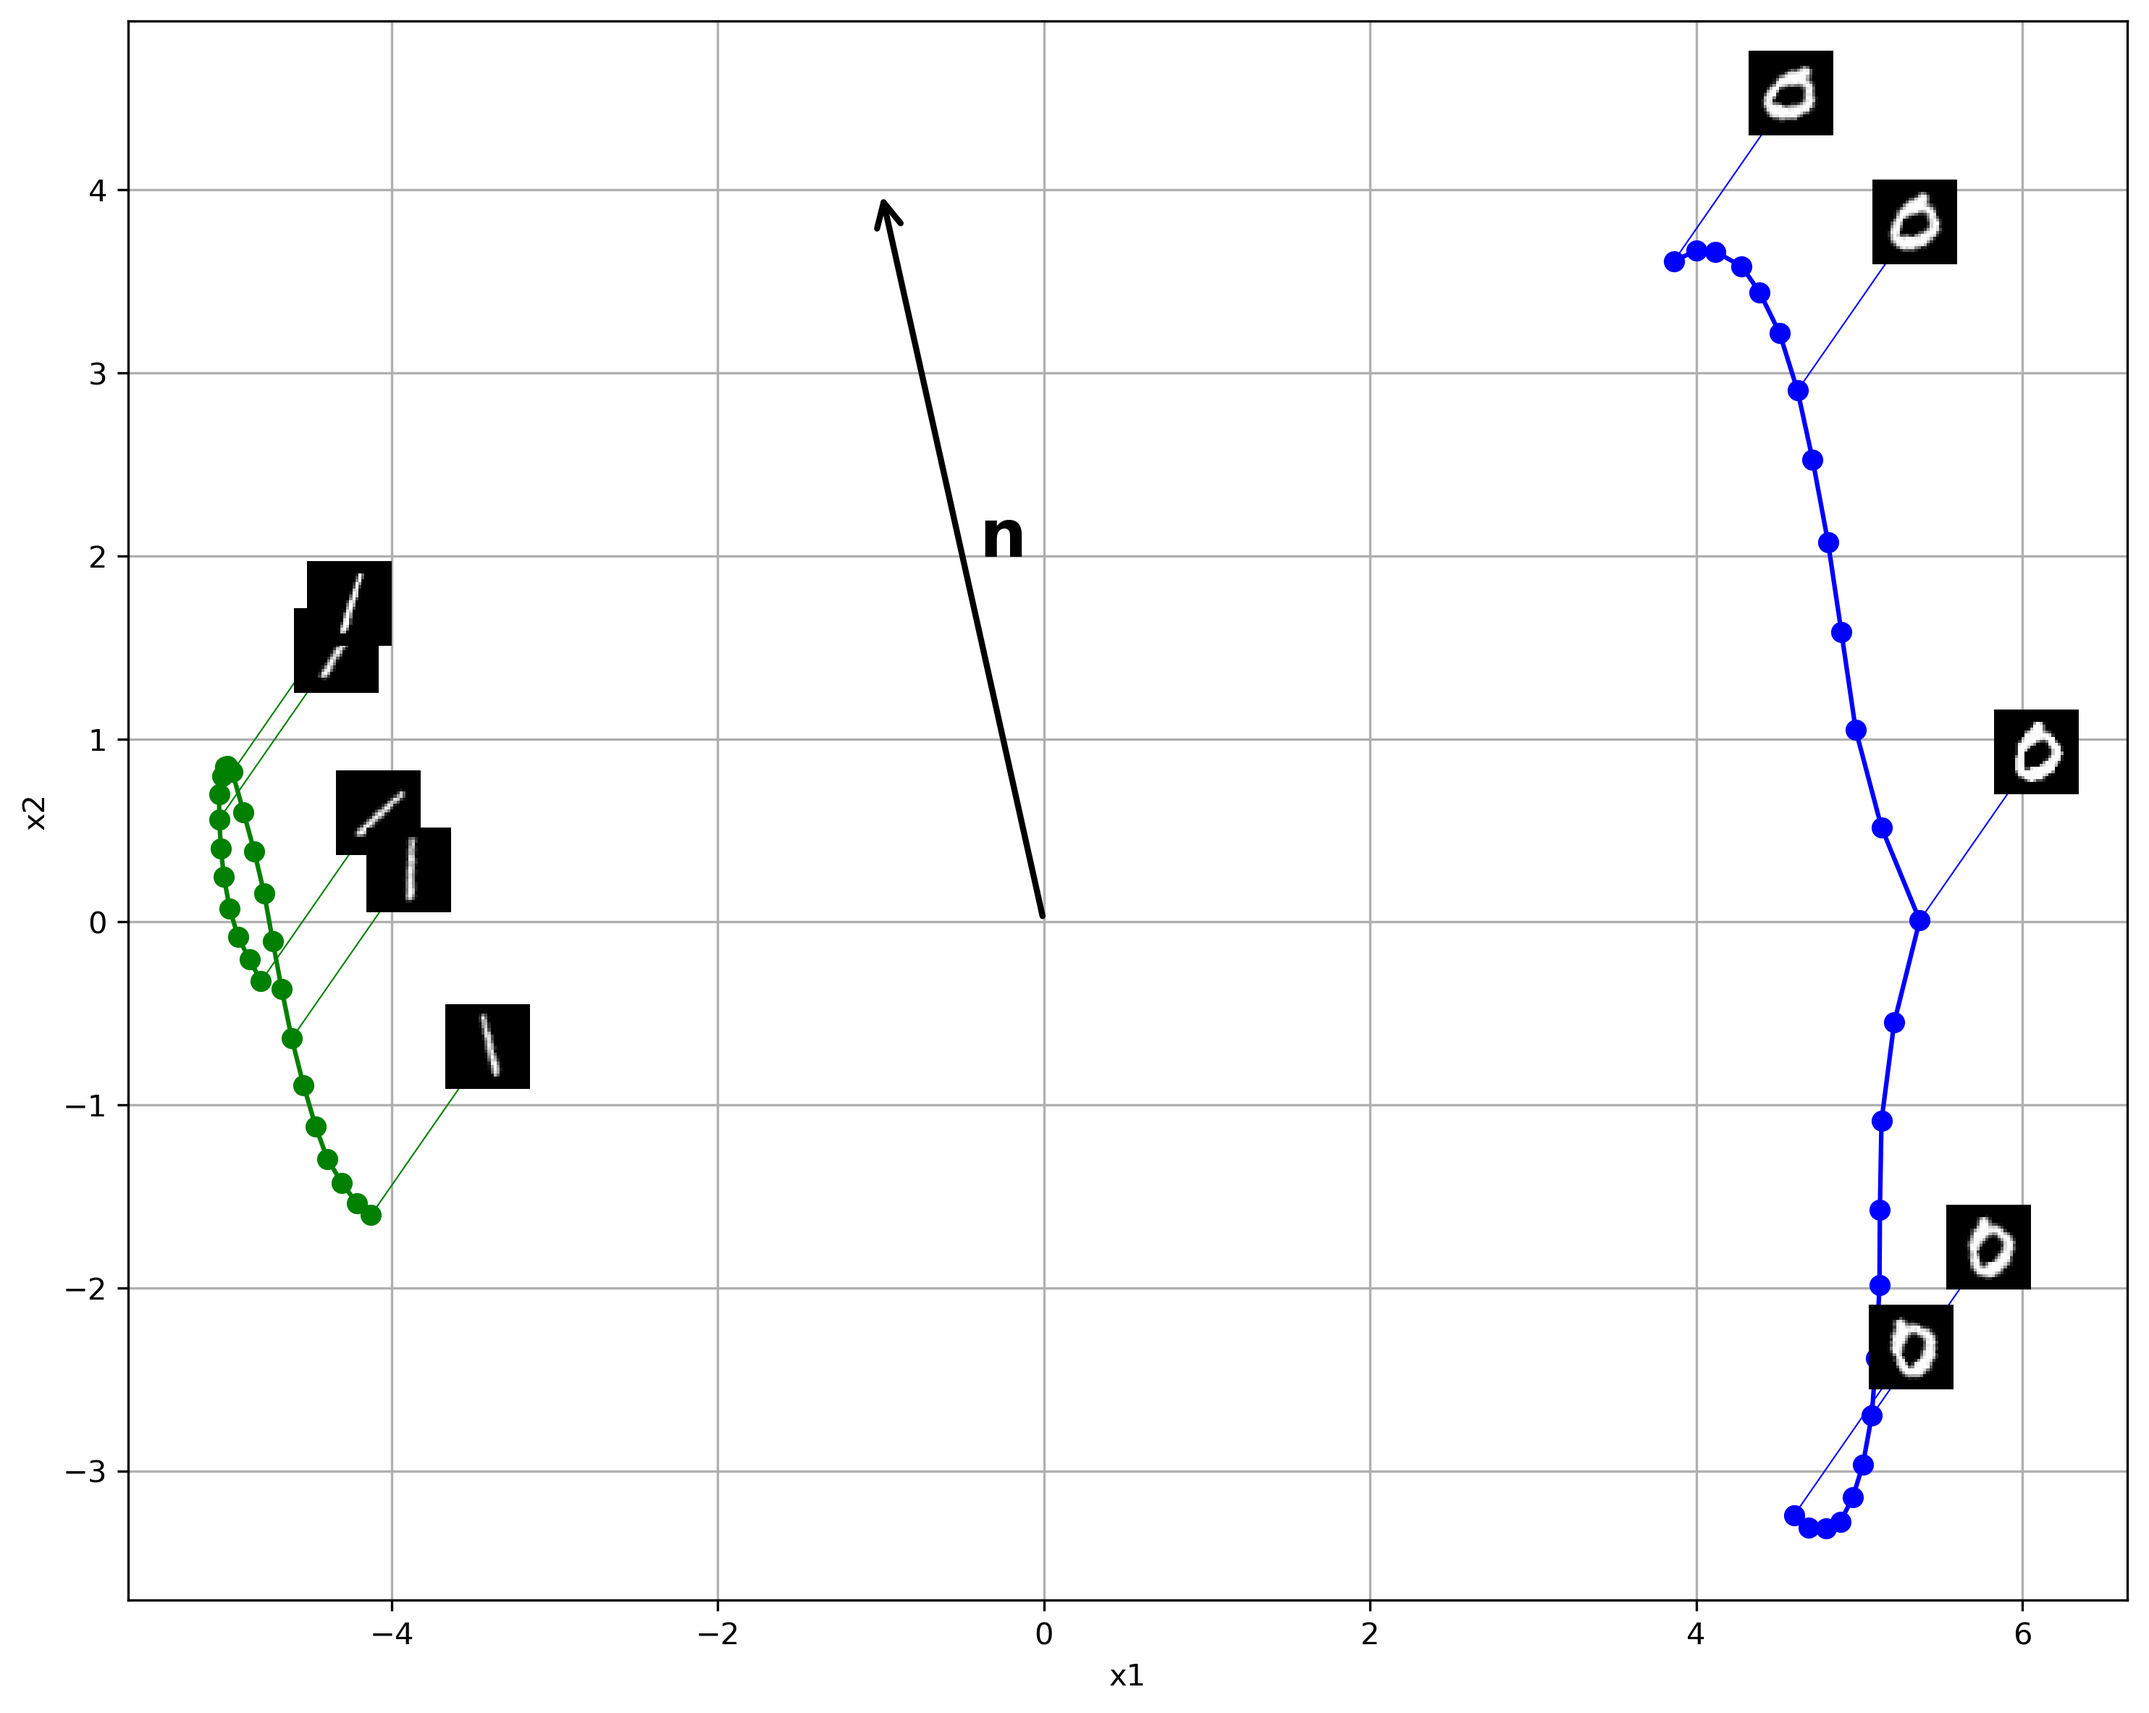
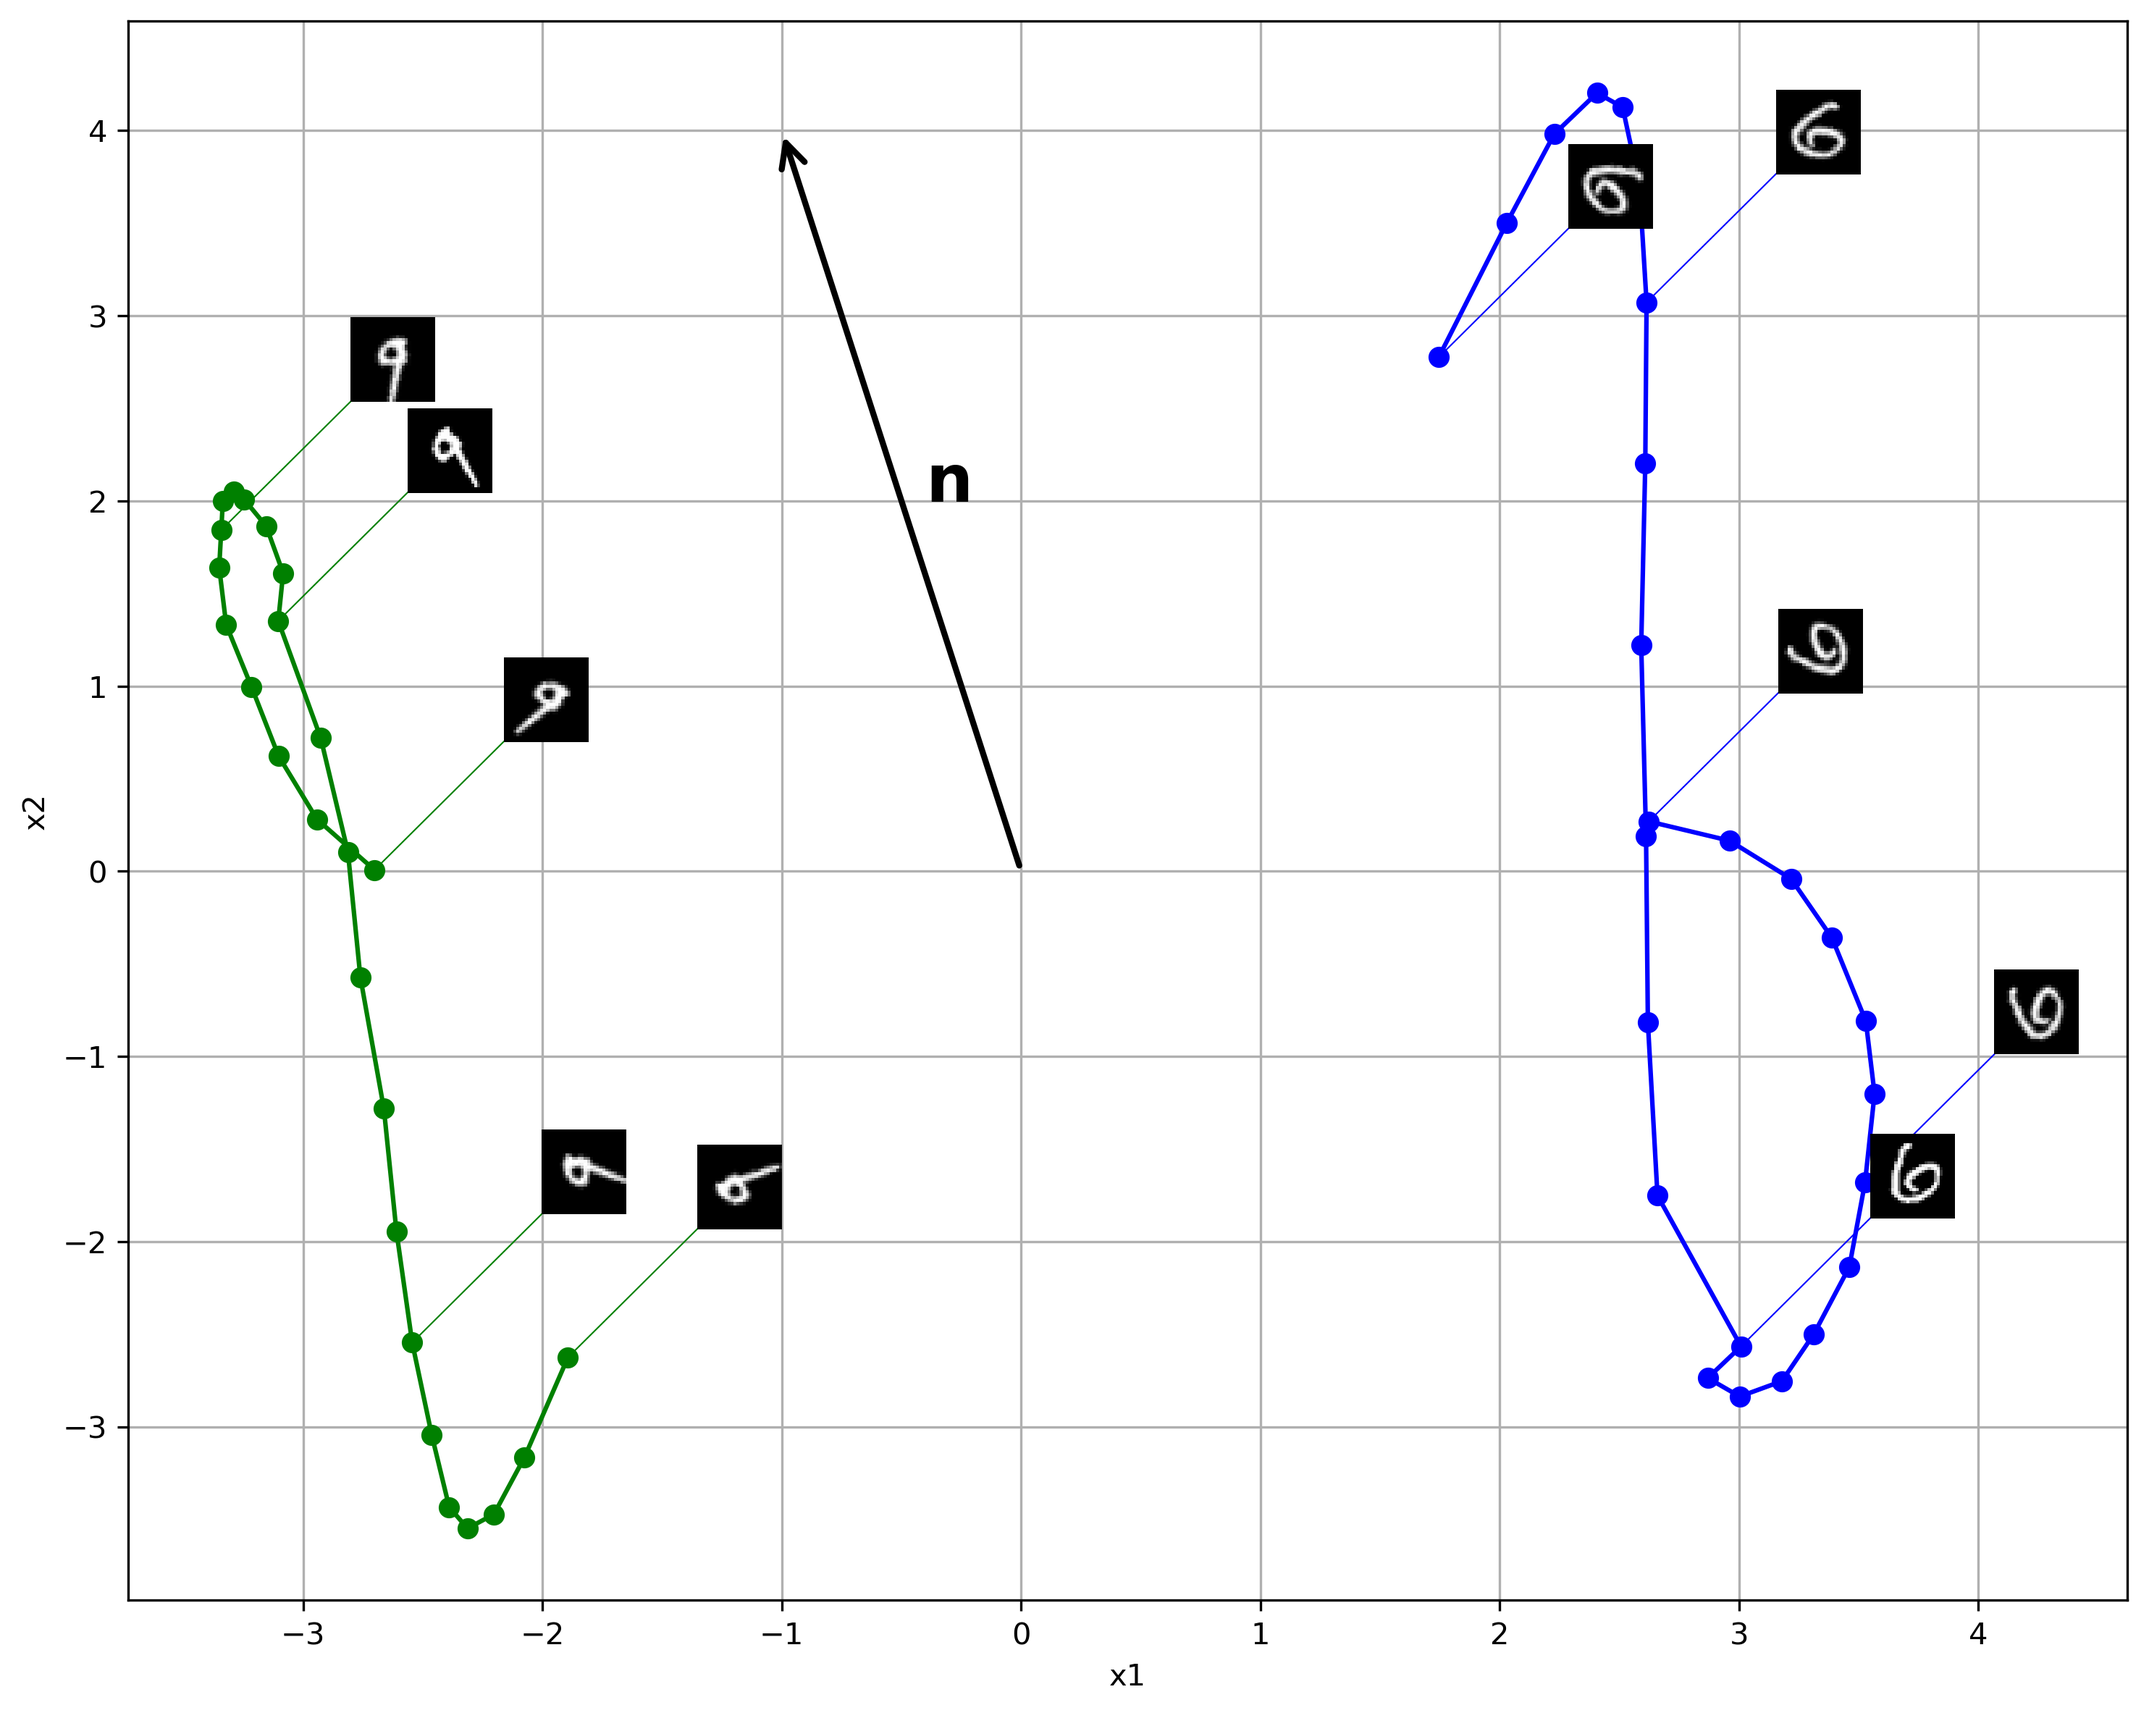
code demo nullspace

diff --git a/assets/pythonsnacks/nullspace.py b/assets/pythonsnacks/nullspace.py
@@ -9,7 +9,7 @@ from torch.utils.data import DataLoader
 from matplotlib.offsetbox import OffsetImage, AnnotationBbox
 
 # Parameters
-angles = np.linspace(-30, 30, 25)
+angles = np.linspace(-80, 80, 25)
 num_digits = 2
 inlay_step = 6  # Add image inlay every 6 rotations
 
@@ -28,6 +28,18 @@ for digit in range(10):
         selected_labels.append(digit)
     if len(selected_digits) == num_digits:
         break
+
+# Manually select two fixed digits
+digit1 =6
+digit2 = 9
+
+# Find the first occurrence of each digit
+idx1 = (labels == digit1).nonzero()[0][0]
+idx2 = (labels == digit2).nonzero()[0][0]
+
+# Select the corresponding images and labels
+selected_digits = [images[idx1], images[idx2]]
+selected_labels = [digit1, digit2]
 
 # Rotate images and collect data
 rotated_images = []
